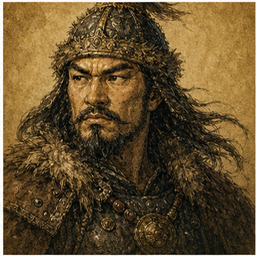
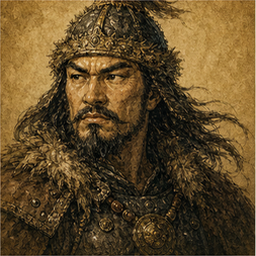
feat: 전투 결과 장수 카드 전면 개편 및 버그 수정
- 온라인 결과 화면: renderBattleResultOnlineCommanderCards 신규 구현
  슬롯별 장수 카드에 격파/손실/잔여 전투 통계 표시
  게스트 경기 / 집계 중 / 경험치 없음 상태별 안내 문구 분기
  온라인 결과 화면에서 result-summary / result-totals 숨김
- 적 클릭 선택 시 비가시 적 편성 제외(isEnemyFormationVisible)
- followTarget 소멸 시 tooltip 정리 및 formation target 초기화
- 전투 종료(endBattleBtn) 온라인 모드: 결과 제출 후 결과 화면으로 이동
- 전투 결과 팝업 data-online 속성 추가
- 초상화 이미지 최적화(alexander, attila, caesar, gyebaek, hannibal, kim_yusin, saladin, yeon_gaesomun)

diff --git a/web/app.js b/web/app.js
@@ -3665,7 +3665,17 @@ import { initRng, random as seededRandom, resetRng } from './src/prng.js';
         }
         if (!formation.followTarget) return;
         const alive = formation.followTarget.units.some(isUnitAlive);
-        if (!alive) { formation.followTarget = null; return; }
+        if (!alive) {
+          if (enemyTargetTooltipEnemy === formation.followTarget) {
+            enemyTargetTooltip.hidden = true;
+            enemyTargetTooltipEnemy = null;
+            clearTimeout(enemyTargetTooltipTimer);
+          }
+          formation.followTarget = null;
+          formation.target = null;
+          formation.targetSetTime = -999;
+          return;
+        }
         formation.target = formationCenter(formation.followTarget);
       });
 
@@ -4540,6 +4550,12 @@ import { initRng, random as seededRandom, resetRng } from './src/prng.js';
       const center = formationCenter(f);
       return effectiveDistance(center.x, center.y, unit.x, unit.y) <= 60;
     });
+  }
+
+  function isEnemyFormationVisible(formation) {
+    if (!formation || formation.team !== "enemy") return false;
+    if (game.battlePhase !== "live") return true;
+    return formation.units.some((unit) => isUnitAlive(unit) && isEnemyVisible(unit));
   }
 
   // ── 말풍선 시스템 ────────────────────────────────────────────────────
@@ -5699,14 +5715,17 @@ import { initRng, random as seededRandom, resetRng } from './src/prng.js';
 
   endBattleBtn.addEventListener("click", () => {
     if (isOnlineMode()) {
+      if (game.battlePhase === "live" && !game.online?.resultSubmitted) {
+        submitOnlineResult(false);
+      }
+      game.battlePhase = "ended";
+      showBattleResult(false);
       onlineClient.disconnect();
-      disableOnlineRandom();
       if (game.online?.isGuest) {
         onlineClient.isGuest = false;
         onlineClient.player = null;
       }
-      game.online = null;
-      game.mode = "quick";
+      return;
     }
     setScreen("home");
   });
@@ -5871,6 +5890,7 @@ import { initRng, random as seededRandom, resetRng } from './src/prng.js';
     let minDist = 8.0;
     for (const f of game.enemyFormations) {
       if (!f.units.some(isUnitAlive)) continue;
+      if (!isEnemyFormationVisible(f)) continue;
       const center = formationCenter(f);
       const d = len(center.x - tile.x, center.y - tile.y);
       if (d < minDist) { minDist = d; clickedEnemy = f; }
@@ -7246,6 +7266,7 @@ import { initRng, random as seededRandom, resetRng } from './src/prng.js';
     const replayBtn = document.getElementById("resultReplay");
     const newBattleBtn = document.getElementById("resultNewBattle");
     const homeBtn = document.getElementById("resultHome");
+    if (battleResultScreen) battleResultScreen.dataset.online = isOnlineMode() ? "true" : "false";
     if (replayBtn) replayBtn.hidden = isOnlineMode();
     if (newBattleBtn) newBattleBtn.hidden = isOnlineMode();
     if (homeBtn) homeBtn.textContent = onlineResult ? "온라인 로비로" : "홈 화면";
@@ -7306,7 +7327,104 @@ import { initRng, random as seededRandom, resetRng } from './src/prng.js';
     return container;
   }
 
+  function renderBattleResultOnlineCommanderCards() {
+    const container = battleResultProgressContainer();
+    if (!container) return;
+    if (!isOnlineMode()) {
+      container.hidden = true;
+      container.innerHTML = "";
+      return;
+    }
+    container.hidden = false;
+    const progress = onlineLastResult?.my?.commanderProgress || [];
+    const progressBySlot = new Map();
+    const progressByTemplate = new Map();
+    progress.forEach((item, index) => {
+      if (Number.isInteger(item.slotIndex)) progressBySlot.set(item.slotIndex, item);
+      if (item.templateId) progressByTemplate.set(item.templateId, item);
+      progressBySlot.set(index, item);
+    });
+    const pending = !onlineLastResult;
+    const guest = Boolean(game.online?.isGuest);
+    const cards = game.playerFormations.map((formation, index) => {
+      const templateId = formation.general.templateId || formation.general.id || formation.general.name;
+      const progressItem = progressBySlot.get(index) || progressByTemplate.get(templateId) || null;
+      return {
+        ...formation.general,
+        ...progressItem,
+        templateId,
+        name: progressItem?.name || formation.general.name,
+        portrait: progressItem?.portrait || formation.general.portrait,
+        slotIndex: index,
+        battleKills: Math.round(Math.max(0, formation.general.kills || 0)),
+        battleLosses: Math.round(Math.max(0, formation.general.losses || 0)),
+        battleRemaining: Math.round(formationRemainingTroops(formation)),
+        levelAfter: progressItem?.levelAfter ?? formation.general.level ?? 0,
+        expAfter: progressItem?.expAfter ?? formation.general.exp ?? 0,
+        gainedExp: progressItem?.gainedExp ?? 0,
+        nextRequiredExp: progressItem?.nextRequiredExp ?? progressItem?.requiredExp ?? 0,
+        leveledUp: Boolean(progressItem?.leveledUp),
+        hasProgress: Boolean(progressItem),
+      };
+    });
+    if (!cards.length) {
+      container.innerHTML = `<div class="result-growth-title">장수 결과</div><div class="result-growth-empty">표시할 아군 장수 정보가 없습니다.</div>`;
+      return;
+    }
+    container.innerHTML = `
+      <div class="result-growth-title">장수 결과</div>
+      <div class="result-growth-grid">
+        ${cards.map(item => {
+          const levelAfter = item.levelAfter ?? item.levelBefore ?? 0;
+          const isMax = levelAfter >= 50;
+          const expAfter = item.expAfter || 0;
+          const nextReq = item.nextRequiredExp ?? item.requiredExp ?? 0;
+          const expPct = isMax ? 100 : (nextReq > 0 ? Math.min(100, expAfter / nextReq * 100) : 0);
+          const gainedExp = item.gainedExp || 0;
+          const expLabel = isMax ? "MAX" : `${formatTroops(expAfter)} / ${formatTroops(nextReq)}`;
+          const note = guest
+            ? "게스트 경기는 장수 경험치가 저장되지 않습니다."
+            : pending
+              ? "장수 성장 집계 중입니다."
+              : item.hasProgress
+                ? (gainedExp > 0 ? "이번 경기 경험치가 반영되었습니다." : "이번 경기에서 반영되는 경험치가 없습니다.")
+                : "이번 경기에서 반영되는 경험치가 없습니다.";
+          const levelUpIcon = item.leveledUp
+            ? `<img class="result-growth-levelup-icon" src="./assets/ui/levelup_icon.png" alt="" aria-hidden="true" draggable="false" />`
+            : "";
+          return `
+            <div class="result-growth-card ${item.leveledUp ? "is-level-up" : ""}">
+              ${onlinePortraitMarkup(item, "result-growth-portrait", { overlayHtml: levelUpIcon })}
+              <div class="result-growth-main">
+                ${item.leveledUp ? `<div class="result-growth-levelup-row"><span class="result-growth-levelup">LEVEL UP</span></div>` : ""}
+                <div class="result-growth-header">
+                  <span class="result-growth-name">${escapeHtml(item.name || item.templateId)}</span>
+                  <div class="result-growth-lv-badge">
+                    <span class="result-growth-lv">Lv ${levelAfter}</span>
+                  </div>
+                </div>
+                <div class="result-growth-exp-row">
+                  <div class="result-growth-expbar">
+                    <div class="result-growth-expbar-fill" style="width:${expPct.toFixed(1)}%"></div>
+                  </div>
+                  <span class="result-growth-exp-text">${gainedExp > 0 ? `+${formatTroops(gainedExp)} EXP · ` : ""}${expLabel}</span>
+                </div>
+                <div class="result-growth-battle-stats">
+                  <div class="result-growth-battle-stat"><span>격파</span><strong>${formatTroops(item.battleKills)}</strong></div>
+                  <div class="result-growth-battle-stat"><span>손실</span><strong>${formatTroops(item.battleLosses)}</strong></div>
+                  <div class="result-growth-battle-stat"><span>잔여</span><strong>${formatTroops(item.battleRemaining)}</strong></div>
+                </div>
+                <div class="result-growth-note">${escapeHtml(note)}</div>
+              </div>
+            </div>`;
+        }).join("")}
+      </div>
+    `;
+    settleOnlinePortraitLoading(container);
+  }
+
   function renderBattleResultOnlineProgress() {
+    return renderBattleResultOnlineCommanderCards();
     const container = battleResultProgressContainer();
     if (!container) return;
     if (!isOnlineMode()) {

diff --git a/web/styles.css b/web/styles.css
@@ -2039,12 +2039,17 @@ input[type="range"].adjust-slider {
 
 .result-total-row strong { font-size: 18px; color: var(--gold-bright); }
 
+.battle-result-screen[data-online="true"] .result-summary,
+.battle-result-screen[data-online="true"] .result-totals {
+  display: none;
+}
+
 .result-commander-progress {
   display: grid;
   gap: 10px;
   padding: 14px;
-  border: 1px solid rgba(226,187,104,0.32);
-  background: rgba(0,0,0,0.22);
+  border: 0;
+  background: transparent;
 }
 
 .result-growth-title {
@@ -2203,6 +2208,45 @@ input[type="range"].adjust-slider {
   font-size: 10px;
   color: #8a7848;
   line-height: 1.2;
+}
+
+.result-growth-battle-stats {
+  display: grid;
+  grid-template-columns: repeat(3, minmax(0, 1fr));
+  gap: 4px;
+  padding-top: 3px;
+}
+
+.result-growth-battle-stat {
+  display: grid;
+  gap: 2px;
+  padding: 5px 3px;
+  border: 1px solid rgba(184,138,8,0.18);
+  background: rgba(0,0,0,0.18);
+  text-align: center;
+  min-width: 0;
+}
+
+.result-growth-battle-stat span {
+  color: #7a6840;
+  font-size: 9px;
+  font-weight: 800;
+}
+
+.result-growth-battle-stat strong {
+  color: var(--text);
+  font-size: 10px;
+  font-weight: 900;
+  overflow: hidden;
+  text-overflow: ellipsis;
+}
+
+.result-growth-note {
+  min-height: 28px;
+  color: var(--text-dim);
+  font-size: 10px;
+  line-height: 1.35;
+  text-align: center;
 }
 
 /* ─ 능력치 변화 ─ */
@@ -2678,7 +2722,7 @@ input[type="range"].adjust-slider {
 }
 
 .online-loadout-action-hint {
-  margin: 16px 18px 10px;
+  margin: 16px 18px 18px;
   color: var(--text-dim);
   font-size: 12px;
   font-weight: 700;
